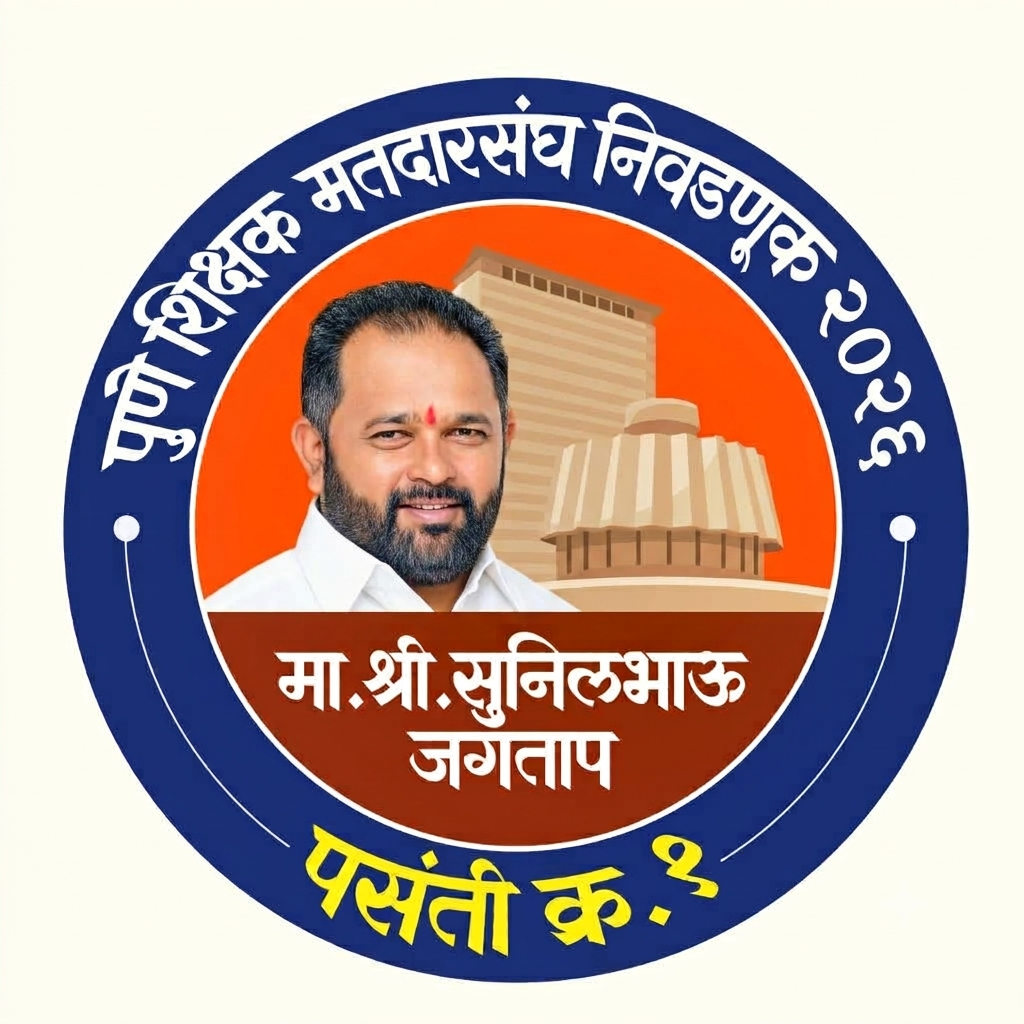
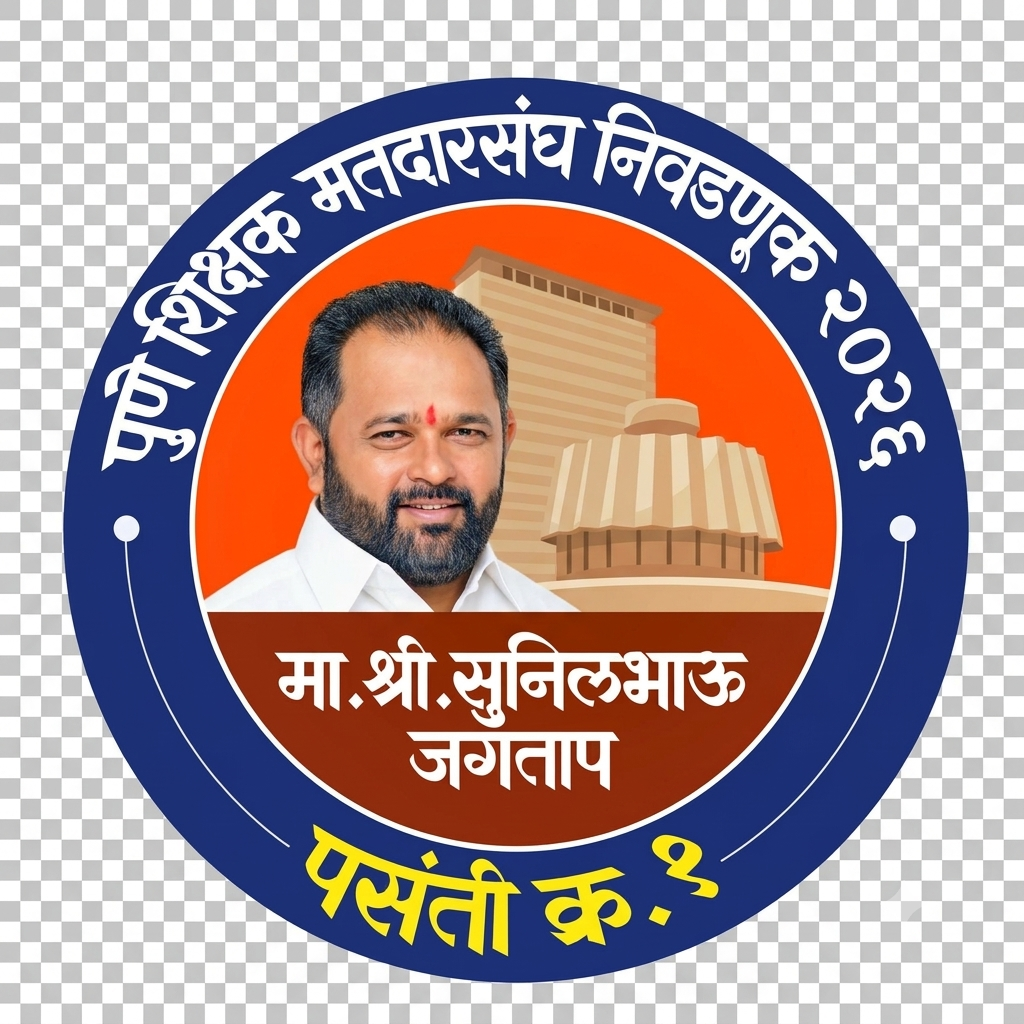
Fix right image and rely on natural PNG transparency

diff --git a/index.html b/index.html
@@ -53,12 +53,13 @@
 
     /* ── Campaign Header ────────────────────────────────────────────── */
     .campaign-header {
-      background: var(--bg);
-      border-bottom: 4px solid var(--accent2);
+      background: linear-gradient(135deg, var(--accent) 0%, var(--accent2) 100%);
+      border-bottom: 4px solid #fff;
       position: relative;
-      box-shadow: 0 4px 16px rgba(0,0,0,0.05);
+      box-shadow: 0 4px 16px rgba(0,0,0,0.15);
       padding: 1.8rem 0;
       z-index: 100;
+      color: #fff;
     }
     .campaign-inner {
       max-width: 1400px; margin: 0 auto;
@@ -72,22 +73,25 @@
       display: flex; align-items: center; justify-content: center;
     }
     .campaign-img img {
-      width: 100%; height: 100%; object-fit: cover;
+      width: 100%; height: 100%; object-fit: contain;
     }
     .campaign-text {
       text-align: center; flex: 1;
     }
     .campaign-text h2 {
-      font-size: 1.7rem; font-weight: 800; color: var(--accent);
+      font-size: 1.7rem; font-weight: 800; color: #ffffff;
       margin-bottom: 0.4rem; letter-spacing: 0.02em;
+      text-shadow: 0 2px 4px rgba(0,0,0,0.2);
     }
     .campaign-text h1 {
-      font-size: 2.8rem; font-weight: 900; color: var(--orange);
-      margin-bottom: 0.4rem; line-height: 1.1; text-shadow: 1px 1px 2px rgba(0,0,0,0.05);
+      font-size: 2.8rem; font-weight: 900; color: #ffffff;
+      margin-bottom: 0.4rem; line-height: 1.1; 
+      text-shadow: 0 2px 6px rgba(0,0,0,0.3);
     }
     .campaign-text h3 {
-      font-size: 2.4rem; font-weight: 800; color: var(--accent2);
+      font-size: 2.4rem; font-weight: 800; color: #ffeb3b;
       margin-bottom: 1rem;
+      text-shadow: 0 2px 4px rgba(0,0,0,0.3);
     }
     .live-pill {
       display: inline-flex; align-items: center; gap: 0.4rem;
@@ -489,11 +493,11 @@
       <h3>पसंती क्र. १</h3>
       <div style="margin-top: 1rem;">
         <span class="live-pill"><span class="live-dot"></span> Live Data</span>
-        <p style="margin-top: 0.5rem; font-size: 0.85rem; color: var(--text3); font-weight: 500;">PUNE Division Voter Directory • Published 12-01-2026</p>
+        <p style="margin-top: 0.5rem; font-size: 0.85rem; color: rgba(255,255,255,0.9); font-weight: 500;">PUNE Division Voter Directory • Published 12-01-2026</p>
       </div>
     </div>
     <div class="campaign-img right-img">
-      <img src="icon1.jpeg" alt="Right Image" onerror="this.style.display='none'" />
+      <img src="icon1.png" alt="Right Image" onerror="this.style.display='none'" />
     </div>
   </div>
 </div>

diff --git a/test_db.php b/test_db.php
@@ -1,0 +1,10 @@
+<?php
+try {
+    $pdo = new PDO('mysql:host=127.0.0.1;port=3306', 'root', 'Veagle@123');
+    echo "Root works!\n";
+    $stmt = $pdo->query("SHOW DATABASES");
+    $dbs = $stmt->fetchAll(PDO::FETCH_COLUMN);
+    print_r($dbs);
+} catch (Exception $e) {
+    echo "Root failed: " . $e->getMessage() . "\n";
+}
